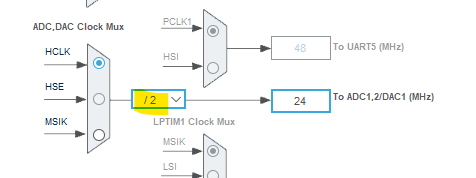
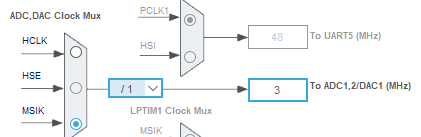
adc update

diff --git a/adc/adc_handson_scan.md b/adc/adc_handson_scan.md
@@ -17,9 +17,9 @@ We will create a sequence to convert two channels:
 This will enable the scan mode. Now our sequence have 3 items
 
 3. Set Rank 1 `Channel` to **Vrefint channel*
-4. Set `Sampling time` to **46.5 ADC clock cycle**
+4. Set `Sampling time` to **46.5 ADC clock cycle** ~15.5 us @ 3MHz MSIK
 5. Set Rank 2 `Channel` to **Temperature sensor channel**
-6. Set `Sampling time` to **46.5 ADC clock cycle**
+6. Set `Sampling time` to **46.5 ADC clock cycle** ~15.5 us @ 3MHz MS
 
 To prevent of data overrun we enable `Low Power Auto Wait`.
 
@@ -27,7 +27,7 @@ To prevent of data overrun we enable `Low Power Auto Wait`.
 
 ![image](./img/config.png)
    
-8.  ADC kernel clock can be reduced to **24 MHZ**
+8.  ADC kernel clock can be reduced to MSIK/8 = **3 MHZ**
    
 ![image](./img/clkconfig.png) 
    

diff --git a/stop3/stop3_cubeide.md b/stop3/stop3_cubeide.md
@@ -98,7 +98,7 @@ HAL_ResumeTick();
   - remove R40 (connection Slink IO and nRST line of mcu)
   - supply VDD_MCU domain **(left pin of JP4)**
   - unplug USB-C of STlink
-- Consumption profile is visualized in **[Cube Monitor PWR](https://www.st.com/en/development-tools/stm32cubemonpwr.html)**
+- consumption profile is visualized in **[Cube Monitor PWR](https://www.st.com/en/development-tools/stm32cubemonpwr.html)**
 
 <p> </p>
 ![image](./img/v3pwr_nucleo.png)
